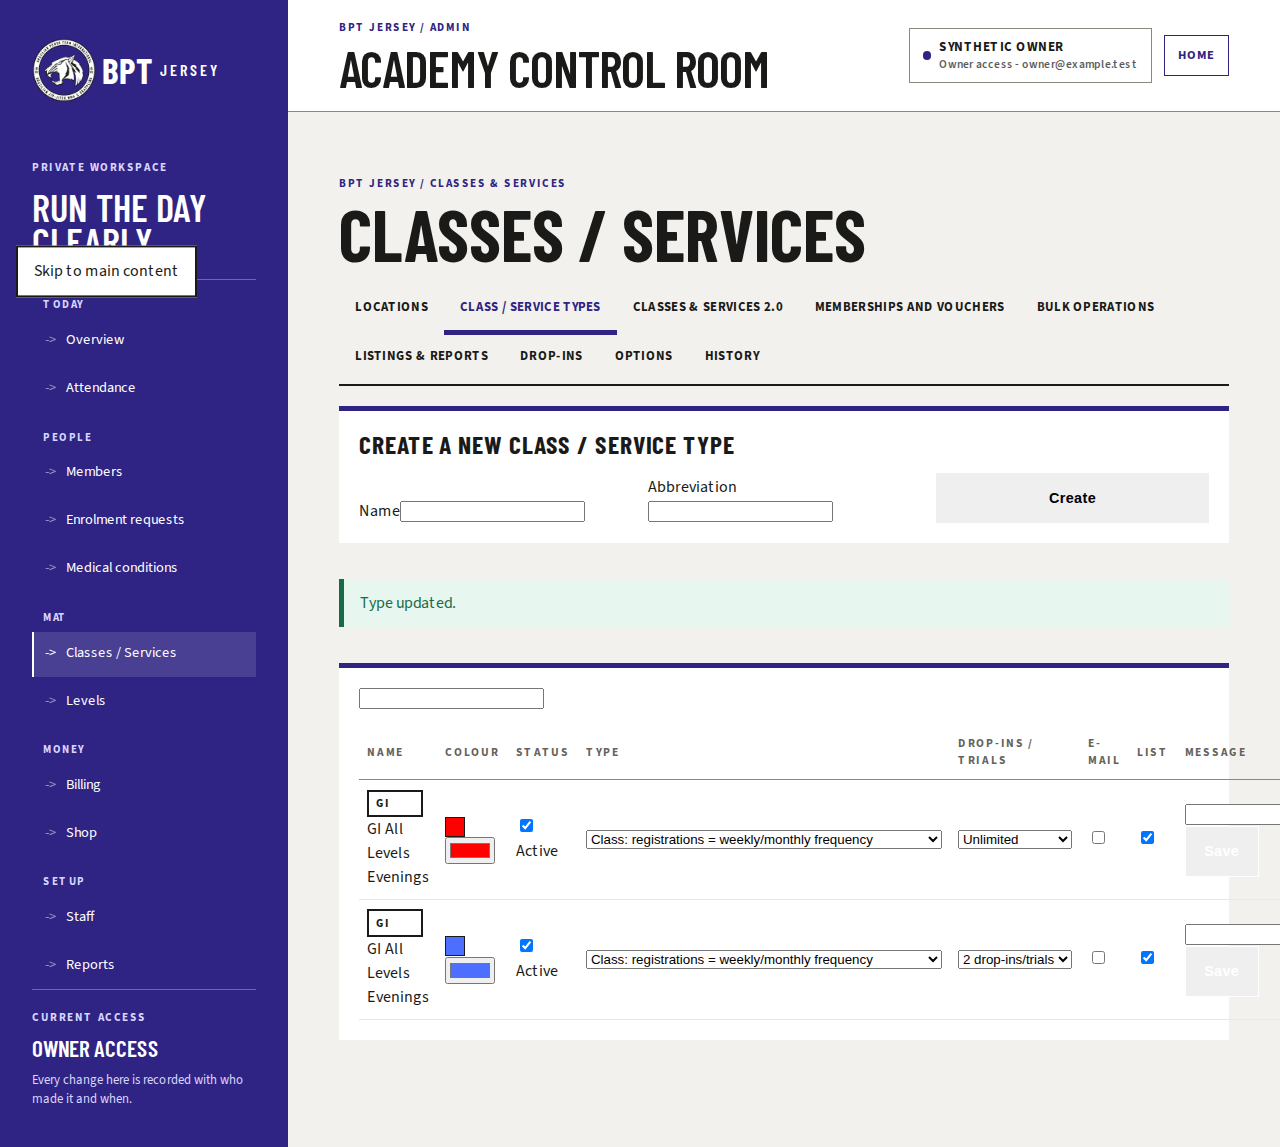
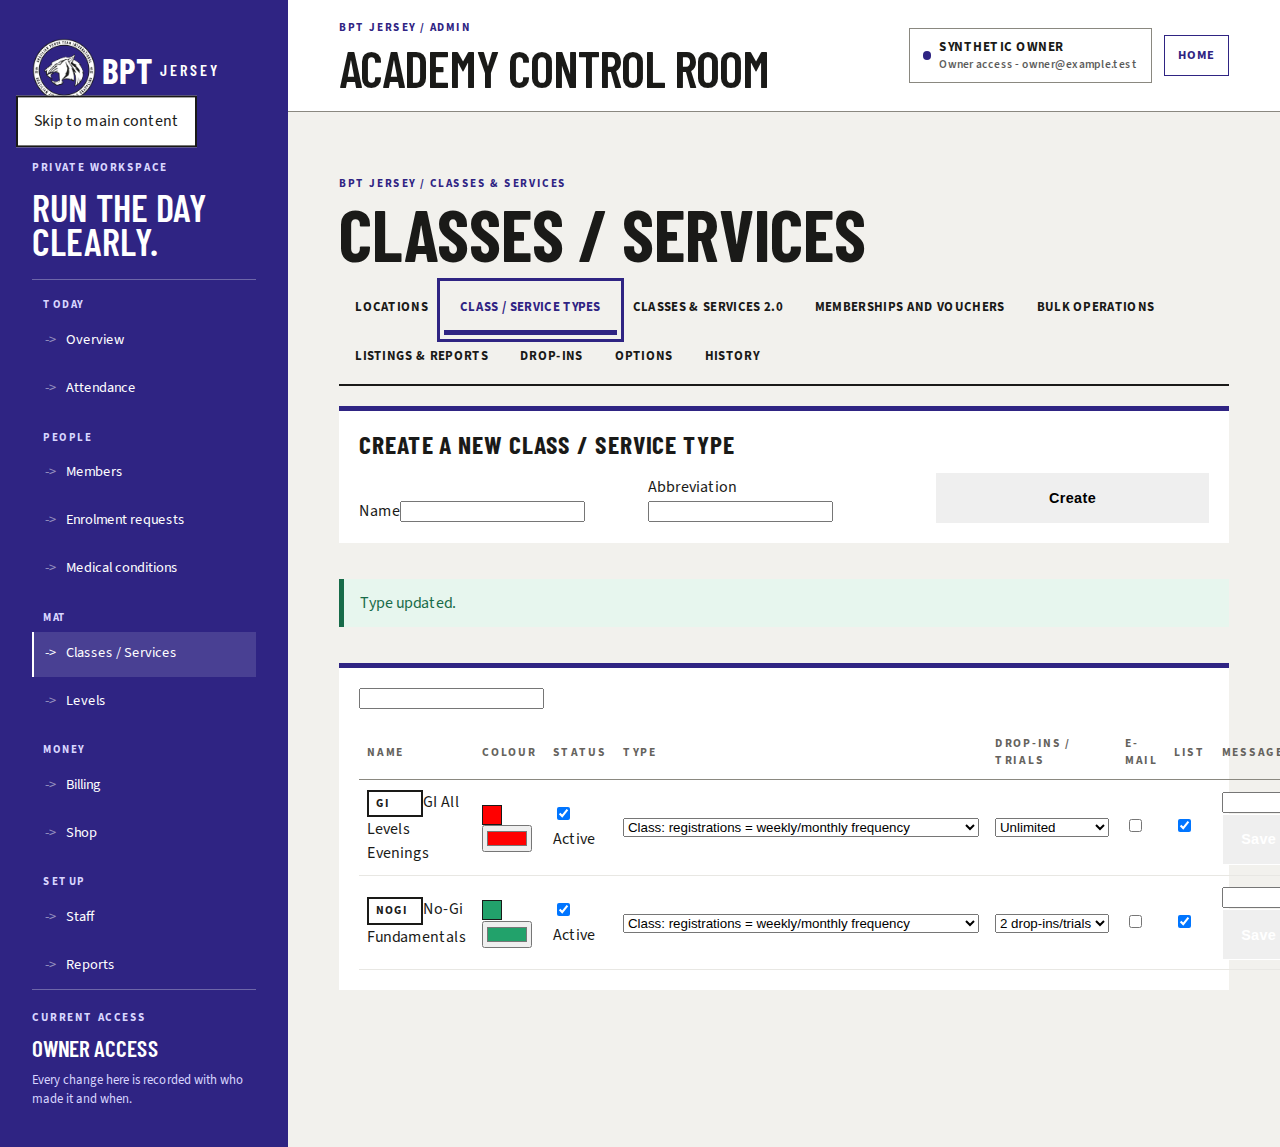
test(e2e): harden Classes / Services spec after review

diff --git a/qa/tests/admin-classes-services.spec.ts b/qa/tests/admin-classes-services.spec.ts
@@ -1,4 +1,4 @@
-import { expect, test } from "@playwright/test";
+import { expect, test, type Page, type TestInfo } from "@playwright/test";
 
 import { installAdminFixture, type CallableCall } from "./admin-fixture";
 
@@ -62,6 +62,8 @@ const noGiProgram = {
   message: "",
 };
 
+const programsById = { [giProgram.programId]: giProgram, [noGiProgram.programId]: noGiProgram };
+
 const catalog = { locations: [townLocation, westLocation], programs: [giProgram, noGiProgram] };
 
 const sessionOne = {
@@ -111,6 +113,12 @@ const staffProfiles = [
   },
 ];
 
+/** Screenshots go to `qa/screenshots/`; the `-phone` suffix marks the mobile project. */
+async function capture(page: Page, testInfo: TestInfo, name: string): Promise<void> {
+  const suffix = testInfo.project.name === "mobile-chromium" ? "-phone" : "";
+  await page.screenshot({ path: `screenshots/${name}${suffix}.png`, fullPage: true });
+}
+
 test.describe("@classes-services", () => {
   test("locations: create and toggle status", async ({ page }, testInfo) => {
     const calls: CallableCall[] = [];
@@ -126,9 +134,11 @@ test.describe("@classes-services", () => {
             ...(body as { data: object }).data,
           },
         }),
-        updateLocation: (body: unknown) => ({
-          location: { ...westLocation, ...(body as { data: object }).data },
-        }),
+        updateLocation: (body: unknown) => {
+          const data = (body as { data: { locationId: string } }).data;
+          const base = data.locationId === townLocation.locationId ? townLocation : westLocation;
+          return { location: { ...base, ...data } };
+        },
       },
     });
     await page.goto("/admin/classes-services/locations?adminTestRole=owner");
@@ -142,12 +152,16 @@ test.describe("@classes-services", () => {
     await page.getByLabel("Abbreviation").fill("ouest");
     await page.getByRole("button", { name: "Create" }).click();
     await expect(page.getByText("Salle Ouest")).toBeVisible();
+    await expect
+      .poll(() => calls.find((c) => c.name === "saveLocation")?.body)
+      .toMatchObject({ data: { name: "Salle Ouest", abbreviation: "ouest" } });
 
     await page.getByRole("combobox", { name: "Status of BPT West" }).selectOption("inactive");
-    await expect.poll(() => calls.some((c) => c.name === "updateLocation")).toBe(true);
+    await expect
+      .poll(() => calls.find((c) => c.name === "updateLocation")?.body)
+      .toMatchObject({ data: { locationId: "loc-west", active: false } });
 
-    const phone = testInfo.project.name === "mobile-chromium" ? "-phone" : "";
-    await page.screenshot({ path: `screenshots/cs-locations${phone}.png`, fullPage: true });
+    await capture(page, testInfo, "cs-locations");
   });
 
   test("types: inline colour and drop-in policy", async ({ page }, testInfo) => {
@@ -157,12 +171,11 @@ test.describe("@classes-services", () => {
       callables: {
         listScheduleCatalog: catalog,
         listSessions: { sessions: [] },
-        saveProgram: (body: unknown) => ({
-          program: { ...giProgram, programId: "prog-new", ...(body as { data: object }).data },
-        }),
-        updateProgram: (body: unknown) => ({
-          program: { ...giProgram, ...(body as { data: object }).data },
-        }),
+        updateProgram: (body: unknown) => {
+          const data = (body as { data: { programId: string } }).data;
+          const base = programsById[data.programId as keyof typeof programsById] ?? giProgram;
+          return { program: { ...base, ...data } };
+        },
       },
     });
     await page.goto("/admin/classes-services/types?adminTestRole=owner");
@@ -182,27 +195,43 @@ test.describe("@classes-services", () => {
       nativeSetter?.call(element, "#ff0000");
       element.dispatchEvent(new Event("input", { bubbles: true }));
     });
-    await colourInput.blur();
-    await expect.poll(() => calls.some((c) => c.name === "updateProgram")).toBe(true);
+    // `blur()` alone moves focus to <body>, which the layout renders under the skip link and
+    // leaves that link visibly overlapping the page in a screenshot; move focus to the tab first.
+    await page.getByRole("tab", { name: "Class / Service Types" }).focus();
+    await expect
+      .poll(() => calls.find((c) => c.name === "updateProgram")?.body)
+      .toMatchObject({ data: { programId: giProgram.programId, colour: "#ff0000" } });
 
     await page.getByRole("combobox", { name: `Drop-ins of ${noGiProgram.name}` }).selectOption("2");
     await expect
-      .poll(() => calls.filter((c) => c.name === "updateProgram").length)
-      .toBeGreaterThanOrEqual(2);
+      .poll(
+        () =>
+          calls
+            .filter((c) => c.name === "updateProgram")
+            .map((c) => c.body as { data: { programId: string; dropInPolicy?: string } })
+            .find((body) => body.data.programId === noGiProgram.programId)?.data.dropInPolicy,
+      )
+      .toBe("2");
+    // Confirms B-1 stays fixed: the No-Gi row keeps its own name, not the GI row's.
+    await expect(page.getByRole("row", { name: new RegExp(noGiProgram.name) })).toBeVisible();
 
-    const phone = testInfo.project.name === "mobile-chromium" ? "-phone" : "";
-    await page.screenshot({ path: `screenshots/cs-types${phone}.png`, fullPage: true });
+    await capture(page, testInfo, "cs-types");
   });
 
   test("classes: week calendar, session panel and copy week preview", async ({
     page,
   }, testInfo) => {
+    const calls: CallableCall[] = [];
     await installAdminFixture(page, {
+      calls,
       callables: {
         listScheduleCatalog: catalog,
         listSessions: { sessions },
         listSessionBookedCounts: { counts: { s1: 2, s2: 3 } },
         listStaffProfiles: staffProfiles,
+        listSessionBookings: { bookings: [] },
+        listMemberNames: { members: [] },
+        listMemberships: [],
         previewWeek: { preview: { count: 2, sample: [] } },
         copyWeek: { sessions },
       },
@@ -213,20 +242,44 @@ test.describe("@classes-services", () => {
     await expect(page.getByText("14 – 20 SEP 2026")).toBeVisible();
 
     await page.getByRole("button", { name: /GI All Levels Evenings/ }).click();
-    await expect(page.getByRole("dialog", { name: /Create classes\/services/i })).toBeVisible();
+    const sessionDialog = page.getByRole("dialog", { name: /Create classes\/services/i });
+    await expect(sessionDialog).toBeVisible();
+    // The registrations panel is the dialog's real content for an existing session: every read it
+    // fires on mount is stubbed above, so this proves it rendered instead of a degraded fallback.
+    await expect(sessionDialog.getByRole("heading", { name: "Registrations" })).toBeVisible();
+    await expect(sessionDialog.getByText("Membership list unavailable")).toHaveCount(0);
+
     await page.keyboard.press("Escape");
+    await expect(sessionDialog).toBeHidden();
+
+    const listSessionsCallsBeforeCopy = calls.filter((c) => c.name === "listSessions").length;
 
     await page.getByRole("button", { name: "Copy week" }).click();
+    const copyDialog = page.getByRole("dialog", { name: "Copy week" });
     await expect(
-      page.getByText("2 classes will be copied to the week of 21 Sep 2026."),
+      copyDialog.getByText("2 classes will be copied to the week of 21 Sep 2026."),
     ).toBeVisible();
 
-    const phone = testInfo.project.name === "mobile-chromium" ? "-phone" : "";
-    await page.screenshot({ path: `screenshots/cs-classes-week${phone}.png`, fullPage: true });
+    await copyDialog.getByRole("button", { name: "Copy" }).click();
+    await expect
+      .poll(() => calls.find((c) => c.name === "copyWeek")?.body)
+      .toMatchObject({
+        data: { fromWeekStart: "2026-09-14", toWeekStart: "2026-09-21", copyBookings: false },
+      });
+    await expect(copyDialog).toBeHidden();
+    // A successful copy reloads the week: the calendar re-asks listSessions rather than trusting
+    // stale state.
+    await expect
+      .poll(() => calls.filter((c) => c.name === "listSessions").length)
+      .toBeGreaterThan(listSessionsCallsBeforeCopy);
 
-    await page.keyboard.press("Escape");
+    await capture(page, testInfo, "cs-classes-week");
+
     await page.getByRole("tablist", { name: "View" }).getByRole("tab", { name: "List" }).click();
-    await expect(page.getByRole("table")).toBeVisible();
+    // Header row plus the two seeded sessions, not just "a table exists".
+    await expect(page.getByRole("row")).toHaveCount(3);
+    await expect(page.getByRole("row", { name: /GI All Levels Evenings/ })).toBeVisible();
+    await expect(page.getByRole("row", { name: /No-Gi Fundamentals/ })).toBeVisible();
   });
 
   test("coach sees three tabs and no mutations", async ({ page }) => {
@@ -246,5 +299,8 @@ test.describe("@classes-services", () => {
       page.getByRole("navigation", { name: "Classes / Services sections" }).getByRole("tab"),
     ).toHaveCount(3);
     await expect(page.getByRole("button", { name: "Copy week" })).toHaveCount(0);
+    // Read-only content, not an empty calendar: both seeded sessions still render for a coach.
+    await expect(page.getByRole("button", { name: /GI All Levels Evenings/ })).toBeVisible();
+    await expect(page.getByRole("button", { name: /No-Gi Fundamentals/ })).toBeVisible();
   });
 });

diff --git a/Listav2/Listav2.data.js b/Listav2/Listav2.data.js
@@ -1763,7 +1763,7 @@ const classesServicesItems = [
     "revision",
     "Nueve pestañas bajo /admin/classes-services; sedes dinámicas, programas v2 y el calendario semanal con copiar/eliminar semana. Sustituye /admin/classes.",
     "T045V2",
-    "Plan 1 en feature/classes-services-clone. 2026-09-16: tareas 1-12 de 12 completas (dominio, store, callables, cliente web, cáscara; Locations Equipo A e0a13b6, Types Equipo B ca45081, Classes & Services 2.0 Equipo C 146cf2f, reglas Firestore Equipo D b30941b; enmienda ADR-010 listStaffProfiles->headCoach e8798a5). Tarea 12: qa/tests/admin-classes-services.spec.ts en verde (8/8, desktop+mobile) con capturas cs-locations/cs-types/cs-classes-week (+ -phone). verify:mvp verde hasta test:unit (323 ficheros / 2964 pruebas); test:rules corrido en el contenedor bpt-emu:local (13/93 verde, sin Java en el host); test:load:synthetic verde; test:e2e:smoke con 2 fallos ajenos en public-home.spec.ts por cambios sin commitear en academy.ts, fuera de alcance. Pendiente: push/PR a main.",
+    "Plan 1 en feature/classes-services-clone. 2026-09-16: tareas 1-12 de 12 completas (dominio, store, callables, cliente web, cáscara; Locations Equipo A e0a13b6, Types Equipo B ca45081, Classes & Services 2.0 Equipo C 146cf2f, reglas Firestore Equipo D b30941b; enmienda ADR-010 listStaffProfiles->headCoach e8798a5). Tarea 12: qa/tests/admin-classes-services.spec.ts en verde (8/8, desktop+mobile) con capturas cs-locations/cs-types/cs-classes-week (+ -phone). verify:mvp verde hasta test:unit (323 ficheros / 2964 pruebas); test:rules corrido en el contenedor bpt-emu:local (13 ficheros / 93 pruebas, verde, sin Java en el host); test:load:synthetic verde; test:e2e:smoke con 2 fallos ajenos en public-home.spec.ts por cambios sin commitear en academy.ts, fuera de alcance. Pendiente: push/PR a main.",
     [
       REF_TASKS,
       "docs/superpowers/plans/2026-09-16-classes-services-plan-1-shell-locations-types-classes.md",

diff --git a/Listav2/Listav2.js b/Listav2/Listav2.js
@@ -1772,7 +1772,7 @@ const classesServicesItems = [
     "revision",
     "Nueve pestañas bajo /admin/classes-services; sedes dinámicas, programas v2 y el calendario semanal con copiar/eliminar semana. Sustituye /admin/classes.",
     "T045V2",
-    "Plan 1 en feature/classes-services-clone. 2026-09-16: tareas 1-12 de 12 completas (dominio, store, callables, cliente web, cáscara; Locations Equipo A e0a13b6, Types Equipo B ca45081, Classes & Services 2.0 Equipo C 146cf2f, reglas Firestore Equipo D b30941b; enmienda ADR-010 listStaffProfiles->headCoach e8798a5). Tarea 12: qa/tests/admin-classes-services.spec.ts en verde (8/8, desktop+mobile) con capturas cs-locations/cs-types/cs-classes-week (+ -phone). verify:mvp verde hasta test:unit (323 ficheros / 2964 pruebas); test:rules corrido en el contenedor bpt-emu:local (13/93 verde, sin Java en el host); test:load:synthetic verde; test:e2e:smoke con 2 fallos ajenos en public-home.spec.ts por cambios sin commitear en academy.ts, fuera de alcance. Pendiente: push/PR a main.",
+    "Plan 1 en feature/classes-services-clone. 2026-09-16: tareas 1-12 de 12 completas (dominio, store, callables, cliente web, cáscara; Locations Equipo A e0a13b6, Types Equipo B ca45081, Classes & Services 2.0 Equipo C 146cf2f, reglas Firestore Equipo D b30941b; enmienda ADR-010 listStaffProfiles->headCoach e8798a5). Tarea 12: qa/tests/admin-classes-services.spec.ts en verde (8/8, desktop+mobile) con capturas cs-locations/cs-types/cs-classes-week (+ -phone). verify:mvp verde hasta test:unit (323 ficheros / 2964 pruebas); test:rules corrido en el contenedor bpt-emu:local (13 ficheros / 93 pruebas, verde, sin Java en el host); test:load:synthetic verde; test:e2e:smoke con 2 fallos ajenos en public-home.spec.ts por cambios sin commitear en academy.ts, fuera de alcance. Pendiente: push/PR a main.",
     [
       REF_TASKS,
       "docs/superpowers/plans/2026-09-16-classes-services-plan-1-shell-locations-types-classes.md",

diff --git a/tasksv2.md b/tasksv2.md
@@ -136,7 +136,7 @@ y T020V2 (el centro de entrenamiento en la base de miembros).
 | ID   | Tarea atomica | Depende de | Estado | Evidencia de salida |
 | ---- | ------------- | ---------- | ------ | ------------------- |
 | T045V2 | Captura de solo lectura de las nueve subsecciones de Classes / Services de Regyfit (estructura, subpestañas, valores de configuracion, clases programadas e historial) | - | aprobada | Capturado el 2026-09-16 con Chrome visible por noVNC en la Tailnet y salida por tunel SSH inverso desde el portatil del operador (Regyfit bloquea la IP del VPS). Inventario saneado en `docs/data/migrations/regyfit/classes-services-inventory.md` (sin nombres ni IPs); crudo (25 MB de capturas y HTML, 2 sedes, 31 tipos, 10 planes, 1 descuento, 2 packs, opciones, drop-in, 177 clases sep-oct y 1000 filas de historial) en `/root/regyfit-capture/` fuera del repo, con los scripts CDP en `/root/regyfit-capture/scripts/`. Spec de diseno `docs/superpowers/specs/2026-09-16-regyfit-classes-services-clone-design.md` (4 decisiones de alcance + 14 de diseno, aprobadas en chat el 2026-09-16). |
-| T046V2 | Plan 1: cascara `/admin/classes-services` con nueve pestañas + Locations dinamicas + Class / Service Types (programas v2) + Classes & Services 2.0 (calendario, lista, panel de sesion, inscripciones, copy/delete week); sustituye `/admin/classes` | T045V2 | revision | Plan en `docs/superpowers/plans/2026-09-16-classes-services-plan-1-shell-locations-types-classes.md`, ejecutado por subagentes (implementador + revisor + rondas de fix) en la rama `feature/classes-services-clone`. **Estado 2026-09-16: Tareas 1-12 de 12 completas.** Tareas 1-6 (dominio, store, callables, cliente web, cascara de nueve pestañas). Tarea 7 Locations fusionada por Equipo A (`e0a13b6`), Tarea 8 Types fusionada por Equipo B (`ca45081`), Tareas 9-10 Classes & Services 2.0 (calendario, lista, panel de sesion, inscripciones, copiar/eliminar semana) fusionadas por Equipo C (`146cf2f`), Tarea 11 reglas de Firestore fusionada por Equipo D (`b30941b`); enmienda de ADR-010 que abre `listStaffProfiles` en lectura a `headCoach` en `e8798a5`. Tarea 12 (esta fila): spec Playwright `qa/tests/admin-classes-services.spec.ts` (locations crear/alternar estado, types color/drop-in en linea, calendario semanal + panel de sesion + vista previa de copiar semana, coach con tres pestañas sin mutaciones) en verde en `desktop-chromium` y `mobile-chromium` (8/8), con capturas `qa/screenshots/cs-locations.png`, `cs-types.png`, `cs-classes-week.png` y sus pares `-phone`. `corepack pnpm verify:mvp` en verde hasta `test:unit` (format:check, lint, typecheck, build, test:unit: 323 ficheros / 2964 pruebas) y se detiene en `test:rules` por falta de Java en este host; `test:rules` corrido aparte en el contenedor de emuladores `bpt-emu:local` (13 ficheros / 93 pruebas, verde). Los tres pasos restantes de `verify:mvp` corridos a mano con `NEXT_PUBLIC_ADMIN_E2E=true`: `build` estatico verde, `test:load:synthetic` verde (240 peticiones, 0 fallos), `test:e2e:smoke` con 2 fallos en `public-home.spec.ts` (precios de la portada) ajenos a este plan — vienen de cambios sin commitear en `apps/web/src/content/academy.ts` que ya estaban en el checkout antes de esta tarea, fuera de alcance. **Pendiente:** subir la rama a `main` (push/PR) queda para Luis; revision final de rama. |
+| T046V2 | Plan 1: cascara `/admin/classes-services` con nueve pestañas + Locations dinamicas + Class / Service Types (programas v2) + Classes & Services 2.0 (calendario, lista, panel de sesion, inscripciones, copy/delete week); sustituye `/admin/classes` | T045V2 | revision | Plan en `docs/superpowers/plans/2026-09-16-classes-services-plan-1-shell-locations-types-classes.md`, ejecutado por subagentes (implementador + revisor + rondas de fix) en la rama `feature/classes-services-clone`. **Estado 2026-09-16: Tareas 1-12 de 12 completas.** Tareas 1-6 (dominio, store, callables, cliente web, cascara de nueve pestañas). Tarea 7 Locations fusionada por Equipo A (`e0a13b6`), Tarea 8 Types fusionada por Equipo B (`ca45081`), Tareas 9-10 Classes & Services 2.0 (calendario, lista, panel de sesion, inscripciones, copiar/eliminar semana) fusionadas por Equipo C (`146cf2f`), Tarea 11 reglas de Firestore fusionada por Equipo D (`b30941b`); enmienda de ADR-010 que abre `listStaffProfiles` en lectura a `headCoach` en `e8798a5`. Tarea 12 (esta fila): spec Playwright `qa/tests/admin-classes-services.spec.ts` (locations crear/alternar estado, types color/drop-in en linea, calendario semanal + panel de sesion + vista previa de copiar semana, coach con tres pestañas sin mutaciones) en verde en `desktop-chromium` y `mobile-chromium` (8/8), con capturas `qa/screenshots/cs-locations.png`, `cs-types.png`, `cs-classes-week.png` y sus pares `-phone`. `corepack pnpm verify:mvp` en verde hasta `test:unit` (format:check, lint, typecheck, build, test:unit: 323 ficheros / 2964 pruebas) y se detiene en `test:rules` por falta de Java en este host; `test:rules` corrido aparte en el contenedor de emuladores `bpt-emu:local` (13 ficheros / 93 pruebas, verde). Los tres pasos restantes de `verify:mvp` corridos a mano con `NEXT_PUBLIC_ADMIN_E2E=true`: `build` estatico verde, `test:load:synthetic` verde (240 peticiones, 0 fallos), `test:e2e:smoke` con 2 fallos en `public-home.spec.ts` (precios de la portada) ajenos a este plan — vienen de cambios sin commitear en `apps/web/src/content/academy.ts` que ya estaban en el checkout antes de esta tarea, fuera de alcance. **Pendiente:** subir la rama a `main` (push/PR) queda para el operador; revision final de rama. |
 | T047V2 | Plan 2: Memberships and Vouchers (planes dinamicos, descuentos, packs de creditos) + Drop-ins + Bulk Operations; sustituye `/admin/memberships` | T046V2 | pendiente | Plan en `docs/superpowers/plans/` (por escribir). |
 | T048V2 | Plan 3: Listings & Reports (8 informes XLSX/PDF imprimible) + Options (documento de configuracion) + History (auditoria con IP) | T047V2 | pendiente | Plan en `docs/superpowers/plans/` (por escribir). |
 | T049V2 | Plan 4: importacion desde Regyfit (catalogo, sesiones, inscripciones, drop-ins, historial) bajo el runbook de staging privado; emulador primero, produccion solo con confirmacion en chat | T048V2 | pendiente | Plan en `docs/superpowers/plans/` (por escribir). |
